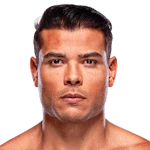
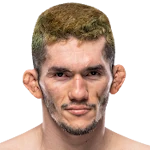
fix: foto correcta de Melquizael Costa (no Paulo Costa)
El script buscaba fotos por apellido y descargaba al peleador equivocado.
Ahora: match por nombre completo, verifica que la foto exista en disco,
y re-descarga cuando el nombre cambia o la foto falta.

diff --git a/scripts/fetch-ufc-data.ts b/scripts/fetch-ufc-data.ts
@@ -150,9 +150,19 @@ async function fetchFighterPhotoMMAAPI(name: string, slug: string): Promise<stri
     const fighters = (data.results ?? []).filter(r => r.type === 'team');
     if (!fighters.length) return '';
 
+    // Match por nombre completo primero, luego apellido como fallback
+    const nameLower = name.toLowerCase();
     const lastName = name.split(' ').slice(-1)[0]?.toLowerCase() ?? '';
-    const match = fighters.find(r => r.entity.name.toLowerCase().includes(lastName)) ?? fighters[0];
+    const exactMatch = fighters.find(r => r.entity.name.toLowerCase() === nameLower);
+    const partialMatch = fighters.find(r => {
+      const n = r.entity.name.toLowerCase();
+      // Para nombres con 2+ palabras, buscar que contenga nombre Y apellido
+      const parts = nameLower.split(' ').filter(p => p.length > 2);
+      return parts.length > 1 ? parts.every(p => n.includes(p)) : n.includes(lastName);
+    });
+    const match = exactMatch ?? partialMatch ?? fighters[0];
     if (!match) return '';
+    console.log(`      foto: "${name}" → API match: "${match.entity.name}" (id:${match.entity.id})`);
 
     // Descargar imagen
     const imgRes = await fetch(`${MMAAPI_BASE}/api/mma/team/${match.entity.id}/image`, {
@@ -221,18 +231,31 @@ async function fetchEvents() {
     if (prev?.fightCard?.length) e.fightCard = prev.fightCard;
     if (prev?.espnEventId) e.espnEventId = prev.espnEventId;
 
-    // Reutilizar solo si ya son rutas locales (no URLs externas de apis viejas)
-    if (prev?.f1img && prev?.f2img && isLocalImg(prev.f1img) && isLocalImg(prev.f2img)) {
+    // Reutilizar solo si ya son rutas locales Y el nombre del peleador no cambió
+    const f1Changed = prev && prev.f1 !== e.f1;
+    const f2Changed = prev && prev.f2 !== e.f2;
+    if (prev?.f1img && prev?.f2img && isLocalImg(prev.f1img) && isLocalImg(prev.f2img) && !f1Changed && !f2Changed) {
       e.f1img = prev.f1img;
       e.f2img = prev.f2img;
       continue;
     }
 
-    console.log(`   → Buscando fotos: ${e.f1} vs ${e.f2}`);
-    e.f1img = await fetchFighterPhotoMMAAPI(e.f1, `${e.slug}-f1`);
-    await sleep(1500);
-    e.f2img = await fetchFighterPhotoMMAAPI(e.f2, `${e.slug}-f2`);
-    await sleep(1500);
+    // Re-descargar fotos (nombre cambió o no hay foto)
+    if (f1Changed || !prev?.f1img || !isLocalImg(prev?.f1img ?? '')) {
+      console.log(`   → Buscando foto F1: ${e.f1}${f1Changed ? ` (antes: ${prev?.f1})` : ''}`);
+      e.f1img = await fetchFighterPhotoMMAAPI(e.f1, `${e.slug}-f1`);
+      await sleep(1500);
+    } else {
+      e.f1img = prev!.f1img;
+    }
+
+    if (f2Changed || !prev?.f2img || !isLocalImg(prev?.f2img ?? '')) {
+      console.log(`   → Buscando foto F2: ${e.f2}${f2Changed ? ` (antes: ${prev?.f2})` : ''}`);
+      e.f2img = await fetchFighterPhotoMMAAPI(e.f2, `${e.slug}-f2`);
+      await sleep(1500);
+    } else {
+      e.f2img = prev!.f2img;
+    }
   }
 
   // ── MERGE: preservar eventos pasados que Wikipedia ya quitó de "scheduled" ──
@@ -319,13 +342,29 @@ async function fetchFightCards() {
   for (const event of events) {
     if (event.main === 'TBD') continue;
 
-    // Reutilizar si ya tiene cartelera — pero asegurar nombres completos
+    // Reutilizar si ya tiene cartelera — pero asegurar nombres completos y fotos
     if (event.fightCard?.length) {
       const mainFight = event.fightCard.find(f => f.order === 0) ?? event.fightCard[0];
-      if (mainFight && event.f1 !== mainFight.f1) {
+      const namesChanged = mainFight && event.f1 !== mainFight.f1;
+      if (namesChanged && mainFight) {
         event.f1 = mainFight.f1;
         event.f2 = mainFight.f2;
         event.main = `${mainFight.f1} vs. ${mainFight.f2}`;
+      }
+      // Re-descargar fotos si el nombre cambió O si la foto no existe en disco
+      const f1Missing = !event.f1img || !existsSync(join(IMG_DIR, `${event.slug}-f1.png`));
+      const f2Missing = !event.f2img || !existsSync(join(IMG_DIR, `${event.slug}-f2.png`));
+      if (f1Missing || f2Missing || namesChanged) {
+        console.log(`   ↻ ${event.name}: re-descargando fotos (${namesChanged ? 'nombres cambiados' : 'foto faltante'})...`);
+        if (f1Missing || namesChanged) {
+          event.f1img = await fetchFighterPhotoMMAAPI(event.f1, `${event.slug}-f1`);
+          await sleep(1500);
+        }
+        if (f2Missing || namesChanged) {
+          event.f2img = await fetchFighterPhotoMMAAPI(event.f2, `${event.slug}-f2`);
+          await sleep(1500);
+        }
+        enriched++;
       }
       console.log(`   · (cached) ${event.name}: ${event.fightCard.length} peleas`);
       continue;
@@ -340,6 +379,11 @@ async function fetchFightCards() {
         event.f1 = mainFight.f1;
         event.f2 = mainFight.f2;
         event.main = `${mainFight.f1} vs. ${mainFight.f2}`;
+        // Descargar fotos con nombres completos
+        event.f1img = await fetchFighterPhotoMMAAPI(event.f1, `${event.slug}-f1`);
+        await sleep(1500);
+        event.f2img = await fetchFighterPhotoMMAAPI(event.f2, `${event.slug}-f2`);
+        await sleep(1500);
       }
       enriched++;
       console.log(`   ✓ ${event.name}: ${card.length} peleas`);
